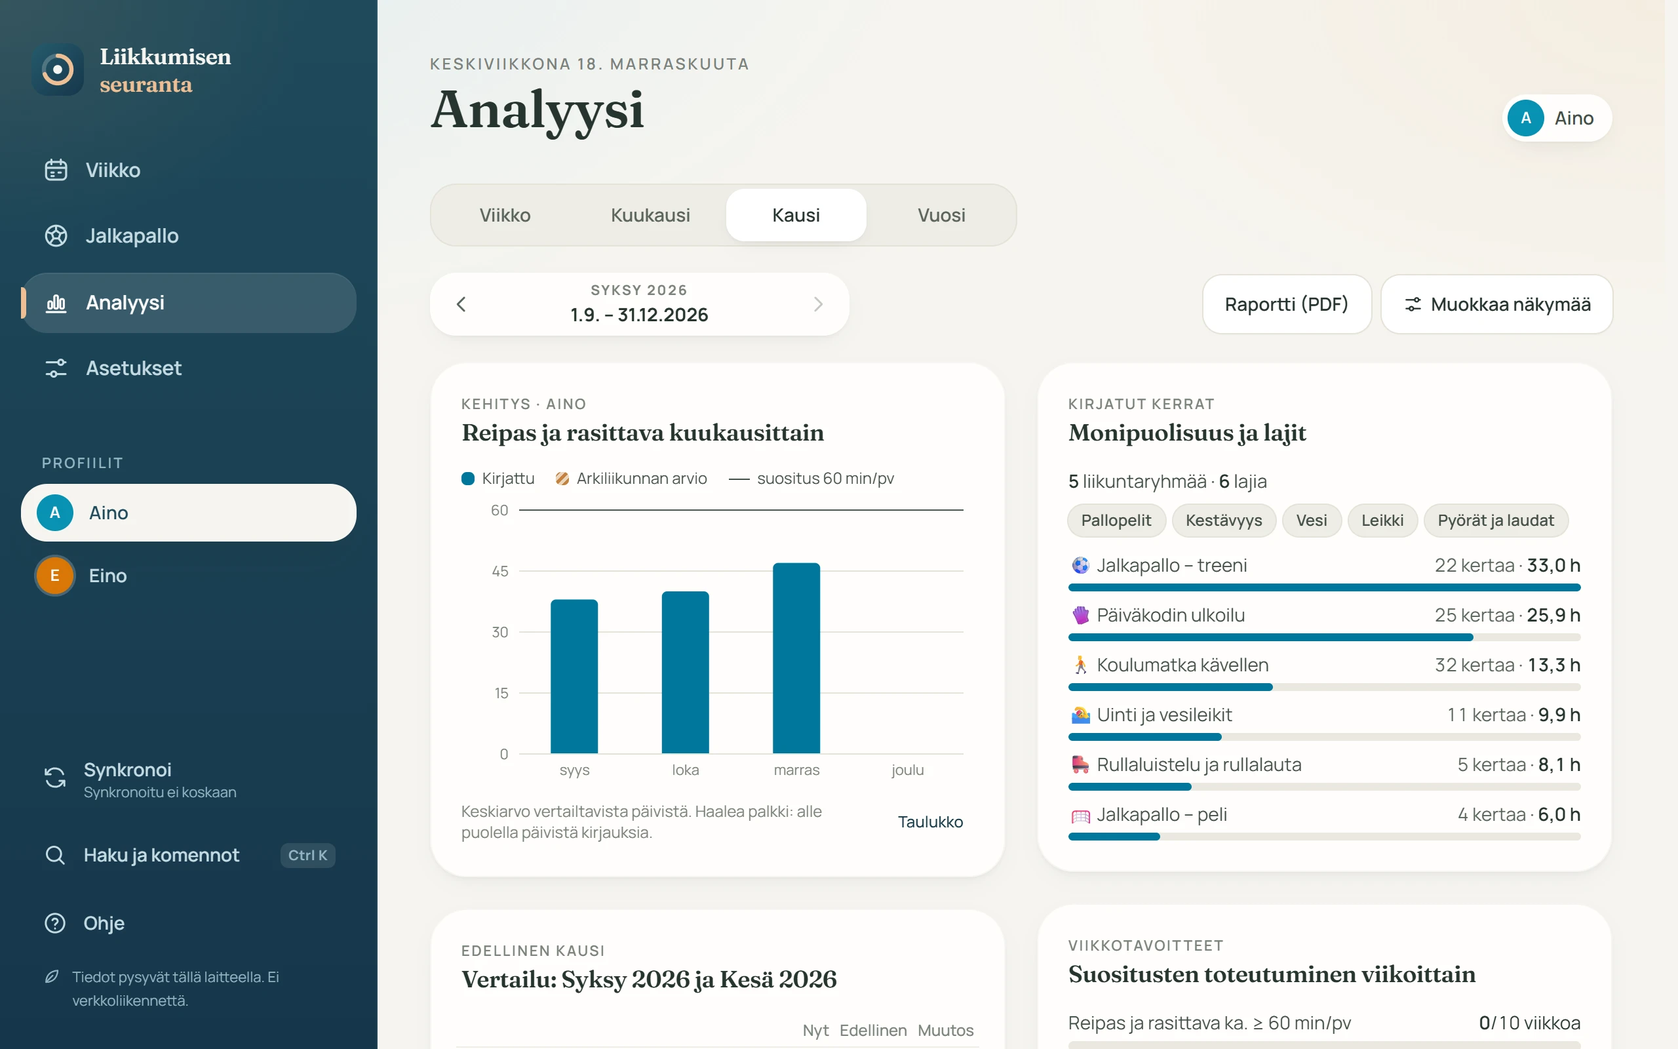
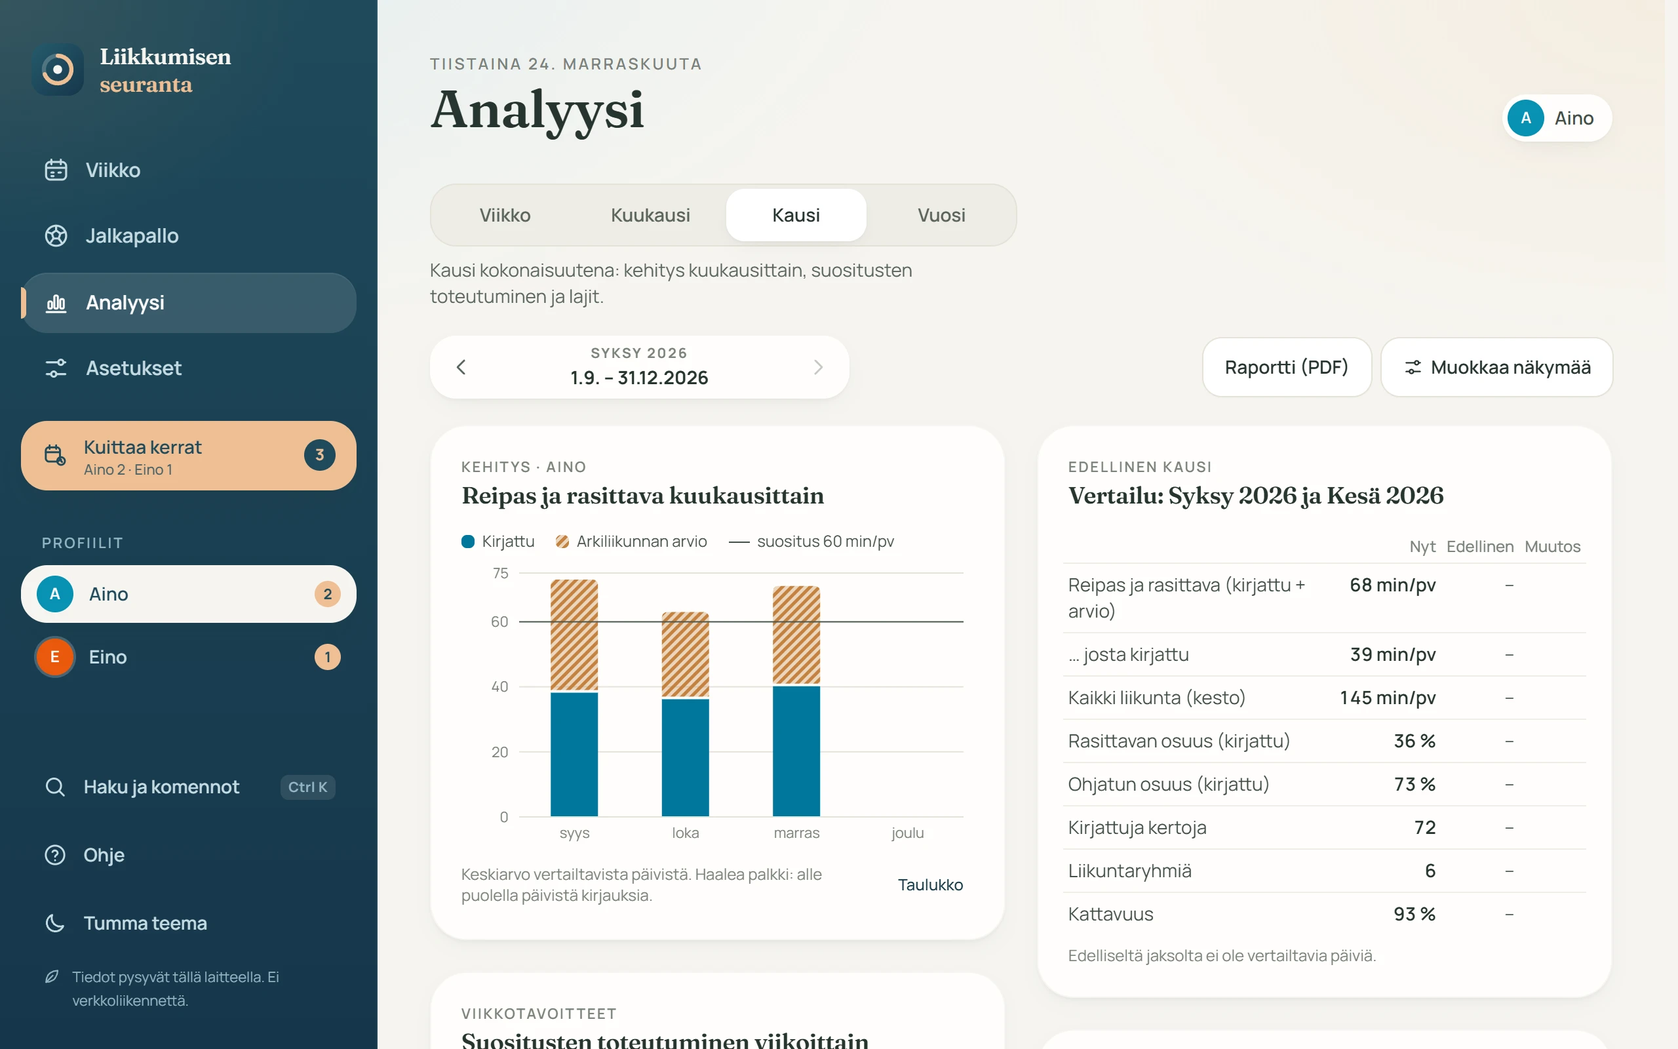
Alkusivun kuvat esimerkkitilasta ja tekstit uusiin ominaisuuksiin (1.1.52)
Uusi scripts/landing-shots.mjs (npm run shots) kuvaa alkusivun näkymät
esimerkkitilasta ilman lisäriippuvuuksia. Esittelyn merkinnät ilman
kuvien lukuja, alkusivun ja Ohjeen tekstit päivitetty (huomiot, kuittaa
tiedoilla, suosikit, joukkueet ja ryhmät, pikakirjaus, videot,
esimerkkitila). Einolle joukkue ja pelit esimerkissä.

diff --git a/src/features/landing/Landing.tsx b/src/features/landing/Landing.tsx
@@ -1,7 +1,8 @@
 // Alkusivu uusille käyttäjille (18.11.2026, rauhallisempi ilme): vaalea paperisävy, selkeä otsikko,
 // pikatestin painike ja kutsukoodi heti alussa sekä esittely, jossa PC:n ja puhelimen näkymät vaihtuvat
 // itsestään. Sen alla lyhyet tosiasiat, kolme ominaisuusosiota kuvineen, tekijän sanat ja pikatesti.
-// Kuvat ovat esimerkkiprofiileista (Aino ja Eino), eivät oikeista tiedoista.
+// Kuvat ovat esimerkkitilasta (Aino ja Eino, src/demo/seedDemo.ts), eivät oikeista tiedoista: ne kuvataan
+// uudelleen komennolla npm run shots (scripts/landing-shots.mjs), kun näkymät muuttuvat.
 
 import { useEffect, useRef, useState, type CSSProperties, type FormEvent, type ReactNode, type RefObject } from 'react';
 import { checkInvite } from '../../domain/invite';
@@ -28,7 +29,7 @@ type ShotName =
   | 'phone-story';
 
 const SHOTS: Record<ShotName, { w: number; h: number; alt: string }> = {
-  'pc-week': { w: 1280, h: 800, alt: 'Viikkonäkymä PC:llä' },
+  'pc-week': { w: 1280, h: 800, alt: 'Viikkonäkymä PC:llä: viime viikon kooste ja viikon huomiot' },
   'pc-analysis': { w: 1280, h: 800, alt: 'Analyysi PC:llä: kehitys kuukausittain ja lajit' },
   'pc-calendar': { w: 1280, h: 800, alt: 'Pelikalenterin kuukausinäkymä PC:llä: treenit ja pelit' },
   'pc-theme': { w: 1280, h: 800, alt: 'Viikkonäkymä PC:llä Kanerva-väriteemalla ja nurmitaustalla' },
@@ -56,15 +57,16 @@ interface Scene {
   chips: [string, string];
 }
 
-// Esittelyn kohtaukset; merkinnät vastaavat kuvien esimerkkitietoja.
+// Esittelyn kohtaukset. Merkinnät eivät sisällä kuvien lukuja, joten ne pysyvät oikeina, kun kuvat otetaan
+// uudelleen esimerkkitilasta (päivät ja luvut muuttuvat kuvauspäivän mukaan).
 const SCENES: Scene[] = [
-  { phone: 'phone-add', pc: 'pc-week', title: 'Liikuntakerta sekunneissa', text: 'Viikon harrastukset ovat valmiina kuitattaviksi. Muut kerrat: valitse laji ja kesto.', chips: ['Treeni 90 min', 'Tallennettu'] },
-  { phone: 'phone-week', pc: 'pc-week', title: 'Viikko yhdellä silmäyksellä', text: 'Näet heti, täyttyykö ikäryhmän liikkumissuositus.', chips: ['Lähellä tahtia', '49 min / päivä'] },
-  { phone: 'phone-analysis', pc: 'pc-analysis', title: 'Kehitys kuukausittain', text: 'Kaudet, lajit ja suositusten toteutuminen. Raportit PDF:nä.', chips: ['+9 min / pv syyskuusta', '6 lajia'] },
+  { phone: 'phone-week', pc: 'pc-week', title: 'Kuittaus yhdellä napautuksella', text: 'Viikon harrastukset ovat valmiina. Tehty treeni kuitataan, poissaolo merkitään syineen.', chips: ['Kuittaa', 'Viikkorytmi'] },
+  { phone: 'phone-add', pc: 'pc-week', title: 'Viikko ja huomiot', text: 'Näet heti, täyttyykö liikkumissuositus, ja huomiot kertovat, mikä muuttui. Muu liikunta: laji ja kesto.', chips: ['Viikon huomiot', 'Suosikkilajit ensin'] },
+  { phone: 'phone-analysis', pc: 'pc-analysis', title: 'Kehitys kuukausittain', text: 'Kaudet, lajit ja suositusten toteutuminen. Raportit PDF:nä.', chips: ['Kausi kerralla', 'Raportti PDF:nä'] },
   { phone: 'phone-theme', pc: 'pc-theme', title: 'Oman näköinen', text: 'Vaalea tai tumma teema, neljä väriteemaa ja taustat, myös oma kuva.', chips: ['4 väriteemaa', 'Tumma teema'] },
-  { phone: 'phone-football', pc: 'pc-calendar', title: 'Pelit ja tulokset', text: 'Pelikalenteri, turnaukset ja kauden tilastot.', chips: ['Kausi 2–1–1', 'Aino: 3 maalia'] },
+  { phone: 'phone-football', pc: 'pc-calendar', title: 'Pelit ja tulokset', text: 'Pelikalenteri, turnaukset, joukkueet ja kauden tilastot.', chips: ['Kauden tilastot', 'Omat maalit'] },
   { phone: 'phone-family', pc: 'pc-family', title: 'Koko perheen kalenteri', text: 'Sisarusten treenit ja pelit samassa kalenterissa. Päällekkäiset pelit näkyvät heti.', chips: ['Päällekkäin', 'Vienti kalenteriin'] },
-  { phone: 'phone-story', pc: 'pc-story', title: 'Kauden kooste', text: 'Kauden kohokohdat tarinakortteina. Tallenna kuvana tai jaa.', chips: ['96,3 h liikuntaa', 'Paras viikko'] },
+  { phone: 'phone-story', pc: 'pc-story', title: 'Kauden kooste', text: 'Kauden kohokohdat tarinakortteina. Tallenna kuvana tai jaa.', chips: ['Paras viikko', 'Jaa kuvana'] },
   { phone: 'phone-preview', pc: 'pc-calendar', title: 'Ennakot jakoon', text: 'Otteluennakko kuvana tai videona joukkueen WhatsApp-ryhmään.', chips: ['Kuva tai video', 'Jaa ryhmään'] },
 ];
 const SCENE_MS = 5000;
@@ -72,7 +74,7 @@ const SCENE_MS = 5000;
 const FACTS = [
   ['Kuittaus yhdellä napautuksella', 'Viikon treenit ovat valmiina kirjattuina.'],
   ['Ei tiliä eikä palvelinta', 'Tiedot tallentuvat vain omalle laitteellesi.'],
-  ['PC ja puhelin', 'Synkronointi oman pilvikansion kautta, toimii myös ilman verkkoa.'],
+  ['PC ja puhelin', 'Synkronointi oman pilvikansion kautta. PC:llä ilmoitukset treenien ja pelien jälkeen.'],
   ['Koko perhe', 'Jokaiselle lapselle oma profiili ja suositus.'],
 ] as const;
 
@@ -156,8 +158,12 @@ export function Landing({ onUnlock, linkFailed }: { onUnlock: () => void; linkFa
           id="ominaisuudet"
           kicker="Kirjaaminen"
           title="Viikkorytmi kerran, sen jälkeen pelkkä kuittaus"
-          text="Lisää lapsen säännölliset harrastukset kerran. Viikon treenit ovat sen jälkeen valmiina, ja tehty kerta kuitataan yhdellä napautuksella. Ylimääräinen liikuntakerta kirjataan valitsemalla laji ja kesto."
-          points={['Arkiliikunta, kuten välitunnit ja koulumatkat, arvioidaan kerran ja lasketaan mukaan', 'Poissaolot ja peruutukset merkitään syineen']}
+          text="Lisää lapsen säännölliset harrastukset kerran. Viikon treenit ovat sen jälkeen valmiina, ja tehty kerta kuitataan yhdellä napautuksella. Ylimääräinen liikuntakerta kirjataan valitsemalla laji ja kesto, suosikkilajit ensimmäisinä."
+          points={[
+            'Arkiliikunta, kuten välitunnit ja koulumatkat, arvioidaan kerran ja lasketaan mukaan',
+            'Kuittaa tiedoilla: toteutunut kesto, teho ja omatoiminen verryttely samalla kertaa',
+            'Poissaolot ja peruutukset merkitään syineen',
+          ]}
         >
           <Shot name="phone-add" onZoom={setZoom} className="lp-solo-phone" />
         </Feature>
@@ -167,7 +173,12 @@ export function Landing({ onUnlock, linkFailed }: { onUnlock: () => void; linkFa
           kicker="Analyysi"
           title="Arvio perustuu lajin tehoon, ei pelkkään kestoon"
           text="Puolentoista tunnin treenistä vain osa on reipasta liikuntaa. Sovellus arvioi jokaisen kerran tehon lajin tyypillisen profiilin perusteella ja näyttää, miten viikko, kuukausi ja kausi vertautuvat suositukseen."
-          points={['Kouluikäisillä 60 minuuttia reipasta ja rasittavaa liikuntaa päivässä', 'Alle kouluikäisillä kolme tuntia liikkumista päivässä', 'Raportti kaudesta PDF-tiedostona']}
+          points={[
+            'Kouluikäisillä 60 minuuttia reipasta ja rasittavaa liikuntaa päivässä',
+            'Alle kouluikäisillä kolme tuntia liikkumista päivässä',
+            'Viikon huomiot: suosituksen toteutuminen ja ohjatun urheilun kuormitus tutkimustiedon valossa',
+            'Raportti kaudesta PDF-tiedostona',
+          ]}
         >
           <Shot name="pc-analysis" onZoom={setZoom} className="lp-pc" />
         </Feature>
@@ -176,8 +187,12 @@ export function Landing({ onUnlock, linkFailed }: { onUnlock: () => void; linkFa
           id="jalkapallo"
           kicker="Jalkapalloperheille"
           title="Pelit, tulokset ja koko perheen kalenteri"
-          text="Pelikalenteri ja tulokset on tehty jalkapalloperheen tarpeisiin. Turnaukset, ottelut ja tulokset ovat yhdessä paikassa. Sisarusten treenit ja pelit näkyvät samassa kalenterissa omilla väreillään, ja päällekkäiset pelit huomaa heti. Otteluennakon voi jakaa kuvana tai videona joukkueen WhatsApp-ryhmään."
-          points={['Muut lajit, kuten jääkiekko, salibandy, uinti ja tanssi, kirjataan samalla tavalla ja lasketaan mukaan suosituksiin']}
+          text="Pelikalenteri ja tulokset on tehty jalkapalloperheen tarpeisiin. Turnaukset, ottelut ja tulokset ovat yhdessä paikassa. Sisarusten treenit ja pelit näkyvät samassa kalenterissa omilla väreillään, ja päällekkäiset pelit huomaa heti. Otteluennakon ja tuloksen voi jakaa kuvana tai videona joukkueen WhatsApp-ryhmään."
+          points={[
+            'Joukkueet ja treeniryhmät sarjoineen, tilastot joukkueittain',
+            'Pelipäivän pikakirjaus: tulos, omat maalit ja peliaika suoraan kortista, myös turnauksessa peli kerrallaan',
+            'Muut lajit, kuten jääkiekko, salibandy, uinti ja tanssi, kirjataan samalla tavalla ja lasketaan mukaan suosituksiin',
+          ]}
         >
           <div className="relative pb-[10%]">
             <Shot name="pc-family" onZoom={setZoom} className="lp-pc w-[88%]" />
@@ -564,6 +579,7 @@ function InviteForm({
         <p id={ids('invite-help')} className={`mt-3 text-sm ${dark ? 'text-[var(--hero-ink-soft)]' : 'text-[var(--lp-ink-3)]'}`}>
           {dark ? 'Ei koodia? Pyydä kutsu: ' : 'Sovellus on toistaiseksi kutsupohjainen. Pyydä kutsu: '}
           {link}
+          {dark ? null : '. Koodin jälkeen voit tutustua esimerkkiin ennen omien tietojen lisäämistä.'}
         </p>
       )}
     </form>

diff --git a/src/demo/seedDemo.ts b/src/demo/seedDemo.ts
@@ -70,7 +70,7 @@ export async function seedDemo(repo: Repo, today: ISODate): Promise<DemoIds> {
     trackingStart: start,
     football: true,
   });
-  const eino = await repo.createProfile({ name: DEMO_NAMES.early, kind: 'child', birthYear: year - 5, birthMonth: 2, color: '#ea580c', trackingStart: start });
+  const eino = await repo.createProfile({ name: DEMO_NAMES.early, kind: 'child', birthYear: year - 5, birthMonth: 2, color: '#ea580c', trackingStart: start, football: true });
   await repo.setTypeHidden(eino.id, t('floorball'), true);
   await repo.updateActivityType(t('football_self'), { favorite: true });
   await repo.updateActivityType(t('cycling'), { favorite: true });
@@ -89,6 +89,8 @@ export async function seedDemo(repo: Repo, today: ISODate): Promise<DemoIds> {
   await repo.saveClub(CLUB, { city: 'Järvikylä', country: 'FI', shareColor: '#0f766e' });
   const team = await repo.saveTeam(aino.id, { name: `${CLUB} · Sininen · ${year - 9}`, format: '7v7', series: 'T10', kind: 'team' });
   const group = await repo.saveTeam(aino.id, { name: `${CLUB} · Taitoryhmä`, kind: 'group' });
+  // Einolla oma joukkue: perheen kalenterissa sisarusten pelit ja niiden päällekkäisyys.
+  const einoTeam = await repo.saveTeam(eino.id, { name: `${CLUB} · Keltainen · ${year - 5}`, format: '5v5', kind: 'team' });
 
   // ---------- viikkorytmi ----------
   const items = [
@@ -97,6 +99,7 @@ export async function seedDemo(repo: Repo, today: ISODate): Promise<DemoIds> {
     await repo.createTemplateItem(aino.id, { activityTypeId: t('school_pe'), weekdays: [2, 4], startTime: '09:00', durationMin: 45, validFrom: start }, today),
     await repo.createTemplateItem(eino.id, { activityTypeId: t('swimming'), weekdays: [6], startTime: '10:00', durationMin: 45, validFrom: start, label: 'Uimakoulu' }, today),
     await repo.createTemplateItem(eino.id, { activityTypeId: t('gymnastics'), weekdays: [3], startTime: '17:00', durationMin: 45, validFrom: start, label: 'Temppujumppa' }, today),
+    await repo.createTemplateItem(eino.id, { activityTypeId: t('football_training'), weekdays: [2], startTime: '17:00', durationMin: 45, validFrom: start, teamId: einoTeam.id, label: 'Futiskoulu' }, today),
   ];
   for (const it of items) await repo.backfillTemplateItem(it.id, today);
   await repo.applyHolidaySkips();
@@ -241,6 +244,16 @@ export async function seedDemo(repo: Repo, today: ISODate): Promise<DemoIds> {
     ],
   });
   await fixture(addDays(nextSat, 12), { kind: 'friendly', startTime: '18:00', durationMin: 90, games: [{ opponent: OPPONENTS[1] }], infoMissing: true, missingNote: 'Kenttä tarkentuu' });
+
+  // Einon pelit: mennyt tuloksineen ja tuleva samana päivänä kuin Ainon turnaus (päällekkäin).
+  const einoGame = (date: ISODate, extra: Partial<Parameters<Repo['createFixture']>[1]> & { kind: 'game' }) =>
+    repo.createFixture(eino.id, { date, startTime: '11:00', durationMin: 45, teamId: einoTeam.id, format: '5v5', ...extra });
+  const einoPast = wd(-1, 7);
+  if (past(einoPast)) {
+    const { plan } = await einoGame(einoPast, { kind: 'game', opponent: OPPONENTS[1], location: 'Järvikylän tekonurmi' });
+    await repo.recordGameResult({ planId: plan.id }, { goalsFor: 4, goalsAgainst: 4, playerGoals: 1, played: 'full' }, today);
+  }
+  await einoGame(addDays(nextSat, 8), { kind: 'game', startTime: '10:30', opponent: OPPONENTS[2], location: 'Harjun halli' });
 
   await repo.setMeta('onboarded', true);
   await repo.setMeta('demoSeeded', true);

diff --git a/src/features/help/HelpSheet.tsx b/src/features/help/HelpSheet.tsx
@@ -61,8 +61,17 @@ const TOPICS: { q: string; a: string[] }[] = [
     q: 'Jalkapallo',
     a: [
       'Jalkapallo-välilehdellä ovat päiväkirja (kommentit treeneistä), pelikalenteri, tulokset ja joukkueet. Tulevat pelit näkyvät myös viikolla, ja pelin jälkeen kirjataan tulos.',
+      'Pelipäivänä Viikko-näkymässä ja Jalkapallo-välilehden yläosassa on pikakirjauksen kortti: tulos, oman pelaajan maalit ja peliaika suoraan, turnauksessa peli kerrallaan ja harjoituspelissä pelien määrä, pituus ja lämmittely. PC:llä ilmoitus tulee jokaisen pelin päätyttyä, ja sitä painamalla pikakirjaus avautuu.',
+      'Joukkueelle voi antaa sarjan (esim. P9) kohdassa Jalkapallo → Joukkueet: se esitäytetään uusiin peleihin ja näkyy jakokuvissa. Otteluennakon ja tuloksen voi jakaa kuvana tai videona (Jaa-painike pelin kohdalla).',
       'Jos pelaaja treenaa useammassa joukkueessa tai ryhmässä, valitse treenin joukkue tai ryhmä viikkorytmissä tai treenin lisätiedoissa. Treeniryhmä (esim. pienryhmävalmennus tai taitokoulu) lisätään Joukkueet-näkymässä omalla nimellä, eikä se näy peleissä. Jos joukkueita ja ryhmiä on yhteensä yksi, treenit merkitään sille automaattisesti. Aiemmat treenit voi merkitä kerralla kohdassa Jalkapallo → Joukkueet. Samassa näkymässä Treeni- ja pelihistoria kertoo treenit ja pelit joukkueittain ja ryhmittäin.',
       'Jalkapallo on valinnainen profiileittain: Asetukset → Profiilit → Muokkaa → "Pelaako … jalkapalloa?". Pois päältä välilehti, joukkueet, pelit ja jalkapallon lisätiedot piilotetaan; kirjatut kerrat säilyvät ja lasketaan liikuntaan.',
+    ],
+  },
+  {
+    q: 'Voinko kokeilla sovellusta esimerkillä?',
+    a: [
+      'Kyllä: Asetukset → Esimerkkitila → Tutustu esimerkkiin (tai aloitusnäkymän painike). Esimerkissä on kaksi keksittyä lasta, koululainen jalkapalloilija ja alle kouluikäinen sisarus, ja heidän viikkonsa, pelinsä ja analyysinsä.',
+      'Esimerkki on erillään omista tiedoistasi: voit kokeilla kaikkea, eikä mikään muutu omissa tiedoissa. Yläreunan Poistu-painike palaa omiin tietoihin. Esimerkki luodaan joka kerta uudelleen tämän päivän mukaan. Synkronointi, varmuuskopiointi ja PC:n ilmoitukset eivät ole esimerkissä käytössä.',
     ],
   },
   {

diff --git a/src/demo/seedDemo.test.ts b/src/demo/seedDemo.test.ts
@@ -107,7 +107,9 @@ describe('esimerkkitilan aineisto', () => {
     check('otteluohjelma', fixtures.some((f) => (f.games?.length ?? 0) >= 3 && planOf.get(f.plannedSessionId)!.date > today));
     check('koti ja vieras', fixtures.some((f) => f.homeAway === 'home') && fixtures.some((f) => f.homeAway === 'away'));
 
-    // Perheen kalenteri: sisarusten kerrat päällekkäin samana päivänä.
+    // Perheen kalenteri: sisarusten pelit samana päivänä ja kerrat päällekkäin.
+    const gameDays = (id: string) => new Set(fixtures.map((f) => planOf.get(f.plannedSessionId)!).filter((p) => p.profileId === id && p.date > today).map((p) => p.date));
+    check('sisarusten pelit samana päivänä', [...gameDays(ids.school)].some((d) => gameDays(ids.early).has(d)));
     const future = plans.filter((p) => p.date > today && p.startTime);
     check(
       'päällekkäiset menot',

diff --git a/src/demo/DemoBanner.tsx b/src/demo/DemoBanner.tsx
@@ -5,7 +5,7 @@ import { IconSparkle } from '../ui/icons';
 /** Esimerkkitilan palkki näkymän yläreunassa: kertoo, että tiedot ovat keksittyjä, ja Poistu palaa omiin tietoihin. */
 export function DemoBanner() {
   return (
-    <div role="status" className="mb-4 flex items-center gap-3 rounded-2xl bg-amber-50 py-2 pl-4 pr-2 text-sm text-amber-950 ring-1 ring-amber-200 lg:mb-6">
+    <div role="status" data-demo-banner className="mb-4 flex items-center gap-3 rounded-2xl bg-amber-50 py-2 pl-4 pr-2 text-sm text-amber-950 ring-1 ring-amber-200 lg:mb-6">
       <IconSparkle size="1.15rem" className="shrink-0 text-amber-700" />
       <span className="min-w-0 flex-1 leading-snug">
         <b>Esimerkkitila.</b> Tiedot ovat keksittyjä. Voit kokeilla kaikkea, omat tietosi eivät muutu.

diff --git a/src/features/help/changelog.ts b/src/features/help/changelog.ts
@@ -9,6 +9,15 @@ export interface Release {
 
 export const CHANGELOG: Release[] = [
   {
+    version: '1.1.52',
+    date: '24.11.2026',
+    items: [
+      'Alkusivun kuvat on päivitetty esimerkkitilasta, ja tekstit kertovat uusista ominaisuuksista: viikon huomiot, kuittaa tiedoilla, suosikkilajit, joukkueet ja treeniryhmät, pelipäivän pikakirjaus sekä jakokuvat ja videot.',
+      'Ohjeessa uudet kohdat esimerkkitilasta, pelipäivän pikakirjauksesta, PC:n peli-ilmoituksista ja joukkueen sarjasta.',
+      'Esimerkkitilassa Einolla on nyt oma futiskoulu ja pelejä, ja koko perheen kalenterissa sisarusten pelit näkyvät samana päivänä.',
+    ],
+  },
+  {
     version: '1.1.51',
     date: '24.11.2026',
     items: [

diff --git a/src/domain/version.ts b/src/domain/version.ts
@@ -1,5 +1,5 @@
 /** Sovelluksen versio varmuuskopio- ja synkronointitiedostoihin (pidä samana kuin package.json). */
-export const APP_VERSION = '1.1.51';
+export const APP_VERSION = '1.1.52';
 
 export const BACKUP_FORMAT = 'liikkumisseuranta-backup';
 export const SYNC_FORMAT = 'liikkumisseuranta-sync';

diff --git a/SPEC.md b/SPEC.md
@@ -1651,3 +1651,8 @@ Käyttäjän pyynnöstä MVP:n jälkeen toteutetut muutokset. Tietomalli on nyt 
   - **Erillinen tila** (`demo/demoMode.ts`): välilehtikohtainen merkintä (sessionStorage `demoMode`) luetaan käynnistyksessä, ja `db/schema.ts` avaa silloin oman tietokannan `liikkumisseuranta-esimerkki`; omaan tietokantaan ei kosketa. `enterDemo` tallentaa omat näkymäasetukset (localStorage) talteen, poistaa vanhan esimerkkitietokannan (enintään 1,5 s, jos toinen välilehti pitää sitä auki) ja lataa sivun; `exitDemo` palauttaa asetukset ja lataa sivun omilla tiedoilla. Kutsukoodin tarkistus ohitetaan esimerkkitilassa (sinne pääsee vain koodin jälkeen). Näkymän yläreunassa palkki "Esimerkkitila … Poistu" (`demo/DemoBanner.tsx`). Synkronointi (sivupalkki, yläpalkki, Viikko), varmuuskopiomuistutus ja PC:n ilmoitukset (`DesktopAgent`) eivät ole esimerkissä käytössä; Asetusten Laitteet ja varmuuskopio -kohta kertoo sen.
   - **Aineisto** (`demo/seedDemo.ts`, ladataan vain esimerkkitilassa): luodaan ensimmäisellä käynnistyksellä (`seedDemoOnce`, kerran myös kahdesti ajetussa käynnistyksessä) tämän päivän mukaan samoilla tallennusfunktioilla kuin tavallinen käyttö, toistettavalla satunnaisluvulla. Aino (koululainen, jalkapallo): seura, joukkue sarjalla ja treeniryhmä, viikkorytmi (joukkuetreeni ma ja ke omatoimisella alkuverryttelyllä, taitotreeni pe ryhmän kanssa, koululiikunta ti ja to) yhdeksän viikkoa taaksepäin kuitattuna (osa kovempana, osa lihas- ja luustoliikuntana), treenien arviot (fokus, arvosana, viihtyminen), sairausviikko, peruttu treeni, lomaviikko, kuittaamatta eilinen ja toissapäivä, omat kerrat (liikuntapuisto osineen, käsin syötetty teho, omatoiminen pallottelu), neljä sarjapeliä tuloksineen, turnaus pelikohtaisine tuloksineen ja kommentteineen, harjoituspeli pikakirjauksella sekä tulevat peli (ennakkoteksti), turnaus (otteluohjelma) ja harjoituspeli (tietoja puuttuu). Eino (alle kouluikäinen): päiväkoti ja leikki arkiliikuntana, uimakoulu la (päällekkäin Ainon pelin kanssa) ja temppujumppa ke, matkapäivä, leikkipuisto, potkulauta, perheretket, luistelu kovempana; piilotettu laji ja suosikkilajit.
   - **Kattavuustesti** (`demo/seedDemo.test.ts`): aineisto syntyy virheettä eri viikonpäivinä ja vuodenvaihteessa, jokaisessa tietokannan taulussa on rivejä (uusi taulu ilman esimerkkiä kaatuu testiin), ja ominaisuuslista (noin 50 tarkistusta) on katettu. **Jatkossa:** uuden ominaisuuden tiedot lisätään seedDemo.ts:ään ja tarkistus testiin.
+- **24.11.2026 alkusivun kuvat esimerkkitilasta ja tekstien päivitys** (versio 1.1.52; käyttäjän pyyntö: alkusivun tiedot vastaamaan uusimpia päivityksiä ja päivittymään sovelluksen muuttuessa).
+  - **Kuvausskripti** `scripts/landing-shots.mjs` (`npm run shots`, kehityspalvelin käynnissä; ei lisäriippuvuuksia: Edge tai Chrome näkymättömänä, ohjaus DevTools-protokollalla Noden omalla WebSocketilla, Node 22+, selaimen polku tarvittaessa ympäristömuuttujasta BROWSER). Skripti avaa tuoreen selainprofiilin, siirtyy esimerkkitilaan (aineisto luodaan kuvauspäivän mukaan), piilottaa esimerkkitilan palkin (`data-demo-banner`) ja animaatiot ja kuvaa samat 14 näkymää kuin ennen (PC 2560 px ja puhelin 1170 px; perusversiot 1280 ja 780 px pienennetään niistä selaimessa) kansioon public/landing. Kuvat otetaan uudelleen, kun käyttöliittymä muuttuu näkyvästi.
+  - **Esittelyn merkinnät** eivät enää sisällä kuvien lukuja (esim. maalimäärät), joten ne pysyvät oikeina uusissa kuvissa. Kohdat: kuittaus, viikko ja huomiot, kehitys, ulkoasu, pelit ja tulokset, perheen kalenteri, kauden kooste, ennakot.
+  - **Tekstit:** Kirjaaminen (suosikkilajit, kuittaa tiedoilla), Analyysi (viikon huomiot ja kuormitus), Jalkapallo (joukkueet ja treeniryhmät sarjoineen, pelipäivän pikakirjaus, tulos myös videona), tosiasioissa PC:n ilmoitukset, kutsukoodin kohdalla maininta esimerkkitilasta. Ohjeeseen kohta esimerkkitilasta sekä pikakirjaus, peli-ilmoitukset, sarja ja jakovideot.
+  - **Esimerkkiaineisto:** Einolle joukkue (5v5), futiskoulu tiistaisin, mennyt peli tuloksineen ja tuleva peli samana päivänä kuin Ainon turnaus (perheen kalenterin päällekkäisyys); kattavuustestiin tarkistus sisarusten peleistä samana päivänä.
